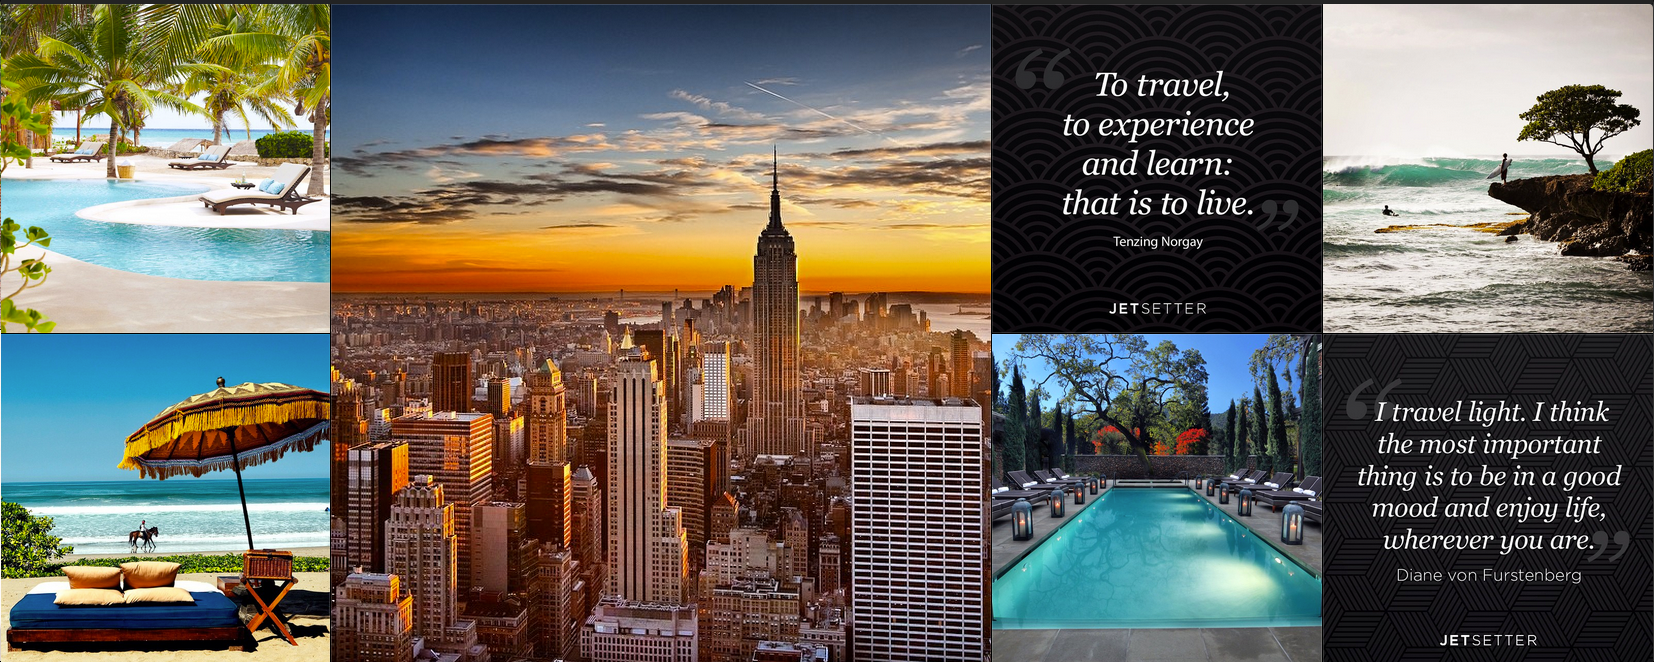
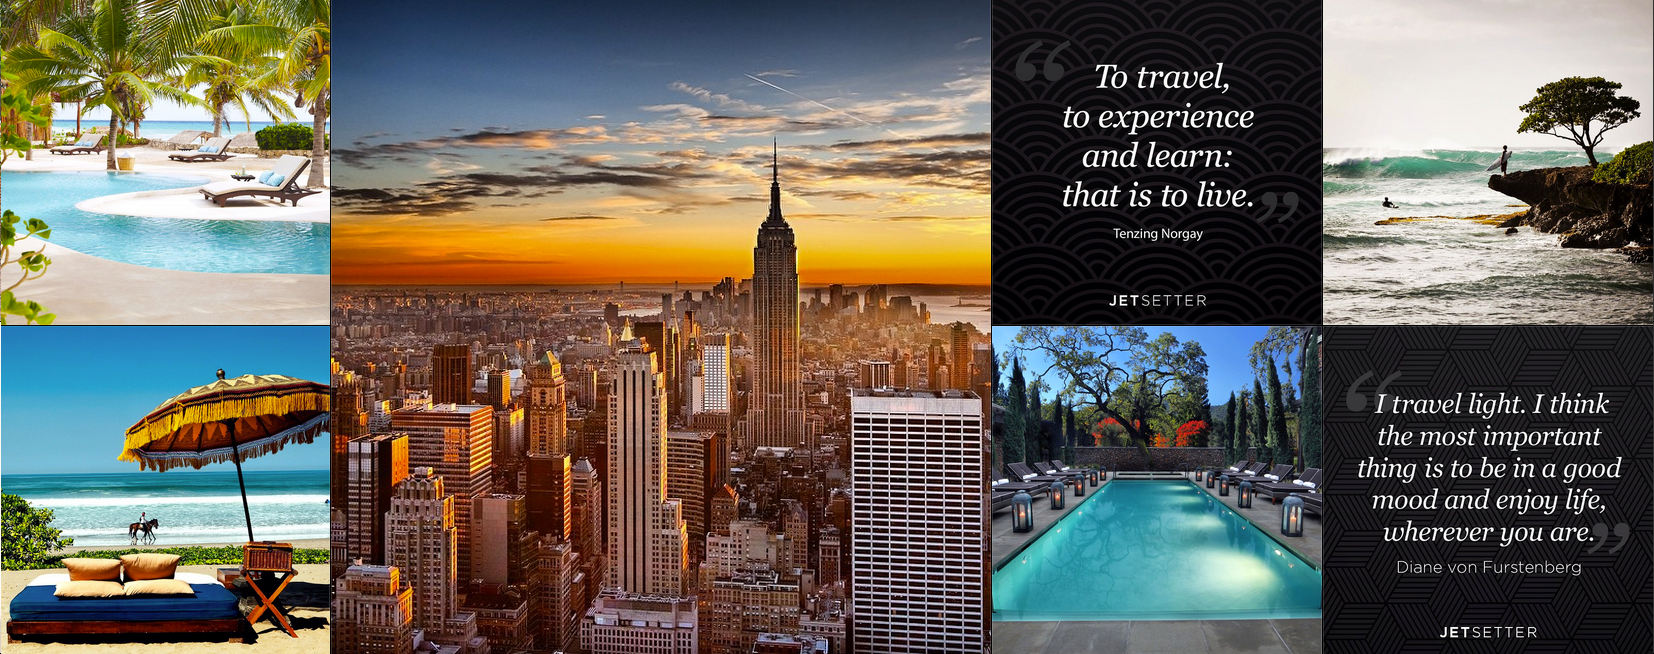
fixes for 1300

diff --git a/includes/homepage/block-top-sales-triple.html b/includes/homepage/block-top-sales-triple.html
@@ -77,9 +77,9 @@
       </div>
     </div>
   </div>
-    <div id="regional-sales-content" class="tab-content container-fluid">
+    <div id="regional-sales-content" class="tab-content container-fluid no-pad">
       <div role="tabpanel" class="tab-pane active" id="todays-sales" aria-labelledby="todays-sales-tab">
-        <div class="row no-gutters">
+        <div class="row tiles">
           <article class="sale-tile col-lg-4 col-md-4 col-sm-6">
             <a href="property.html">
             <img src="images/grid-1.png" class="img-responsive" />
@@ -172,7 +172,7 @@
           </article>
         </div>
         
-        <div id="extra-row-1" class="row no-gutters extra-row">
+        <div id="extra-row-1" class="row tiles extra-row">
           <article class="sale-tile col-lg-4 col-md-4 col-sm-6">
             <a href="#">
             <img src="images/grid-3.png" class="img-responsive" />
@@ -264,7 +264,7 @@
             </a>
           </article>
         </div>
-        <div class="row no-gutters toggle-row">
+        <div class="row tiles toggle-row">
           <div class="col-lg-12 col-md-12 col-sm-12">
             <a href="#" class="see-more-toggle" onclick="$('#extra-row-1').slideToggle('100', function(){ $('.see-more-toggle, .see-more-toggle-up').toggle();
             }); return false;">
@@ -278,7 +278,7 @@
         </div>
       </div>
       <div role="tabpanel" class="tab-pane fade in" id="us-canada" aria-labelledby="us-canada-tab">
-        <div class="row no-gutters">
+        <div class="row tiles">
           <article class="sale-tile col-lg-3 col-md-4 col-sm-6">
             <a href="#">
               <img src="images/grid-2.png" class="img-responsive" />
@@ -415,14 +415,14 @@
             </a>
           </article>
         </div>
-        <div class="row no-gutters">
+        <div class="row tiles">
           <div class="col-lg-12 col-md-12 col-sm-12 text-right">
             <a href="#" class="see-more-toggle" onclick="$('extra-rows').slideToggle();">See More Sales</a>
           </div>
         </div>
       </div>
       <div role="tabpanel" class="tab-pane fade" id="mexico-caribbean" aria-labelledby="mexico-caribbean-tab">
-        <div class="row no-gutters">
+        <div class="row tiles">
           <article class="sale-tile col-lg-3 col-md-4 col-sm-6">
             <a href="#">
               <img src="images/grid-5.png" class="img-responsive" />
@@ -561,7 +561,7 @@
         </div>
       </div>
       <div role="tabpanel" class="tab-pane fade" id="central-south-america" aria-labelledby="central-south-america-tab">
-        <div class="row no-gutters">
+        <div class="row tiles">
           <article class="sale-tile col-lg-3 col-md-4 col-sm-6">
             <a href="#">
               <img src="images/grid-2.png" class="img-responsive" />
@@ -700,7 +700,7 @@
         </div>
       </div>
       <div role="tabpanel" class="tab-pane fade" id="europe" aria-labelledby="europe-tab">
-        <div class="row no-gutters">
+        <div class="row tiles">
           <article class="sale-tile col-lg-3 col-md-4 col-sm-6">
             <a href="#">
               <img src="images/grid-2.png" class="img-responsive" />
@@ -839,7 +839,7 @@
         </div>
       </div>
       <div role="tabpanel" class="tab-pane fade" id="asia" aria-labelledby="asia-tab">
-        <div class="row no-gutters">
+        <div class="row tiles">
           <article class="sale-tile col-lg-3 col-md-4 col-sm-6">
             <a href="#">
               <img src="images/grid-2.png" class="img-responsive" />
@@ -978,7 +978,7 @@
         </div>
       </div>
       <div role="tabpanel" class="tab-pane fade" id="africa" aria-labelledby="africa-tab">
-        <div class="row no-gutters">
+        <div class="row tiles">
           <article class="sale-tile col-lg-3 col-md-4 col-sm-6">
             <a href="#">
               <img src="images/grid-2.png" class="img-responsive" />

diff --git a/includes/homepage/block-top-sales.html b/includes/homepage/block-top-sales.html
@@ -77,9 +77,9 @@
       </div>
     </div>
   </div>
-    <div id="regional-sales-content" class="tab-content">
+    <div id="regional-sales-content" class="tab-content full-bleed">
       <div role="tabpanel" class="tab-pane active" id="todays-sales" aria-labelledby="todays-sales-tab">
-        <div class="row no-gutters">
+        <div class="row tiles">
           <article class="sale-tile col-lg-3 col-md-4 col-sm-6">
             <a href="property.html">
             <img src="images/grid-1.png" class="img-responsive" />
@@ -217,7 +217,7 @@
           </article>
         </div>
         
-        <div id="extra-row-1" class="row no-gutters extra-row">
+        <div id="extra-row-1" class="row tiles extra-row">
           <article class="sale-tile col-lg-3 col-md-4 col-sm-6">
             <a href="#">
             <img src="images/grid-3.png" class="img-responsive" />
@@ -354,7 +354,7 @@
             </a>
           </article>
         </div>
-        <div class="row no-gutters toggle-row">
+        <div class="row tiles toggle-row">
           <div class="col-lg-12 col-md-12 col-sm-12">
             <a href="#" class="see-more-toggle" onclick="$('#extra-row-1').slideToggle('100', function(){ $('.see-more-toggle, .see-more-toggle-up').toggle();
             }); return false;">
@@ -368,7 +368,7 @@
         </div>
       </div>
       <div role="tabpanel" class="tab-pane fade in" id="us-canada" aria-labelledby="us-canada-tab">
-        <div class="row no-gutters">
+        <div class="row tiles">
           <article class="sale-tile col-lg-3 col-md-4 col-sm-6">
             <a href="#">
               <img src="images/grid-2.png" class="img-responsive" />
@@ -505,14 +505,14 @@
             </a>
           </article>
         </div>
-        <div class="row no-gutters">
+        <div class="row tiles">
           <div class="col-lg-12 col-md-12 col-sm-12 text-right">
             <a href="#" class="see-more-toggle" onclick="$('extra-rows').slideToggle();">See More Sales</a>
           </div>
         </div>
       </div>
       <div role="tabpanel" class="tab-pane fade" id="mexico-caribbean" aria-labelledby="mexico-caribbean-tab">
-        <div class="row no-gutters">
+        <div class="row tiles">
           <article class="sale-tile col-lg-3 col-md-4 col-sm-6">
             <a href="#">
               <img src="images/grid-5.png" class="img-responsive" />
@@ -651,7 +651,7 @@
         </div>
       </div>
       <div role="tabpanel" class="tab-pane fade" id="central-south-america" aria-labelledby="central-south-america-tab">
-        <div class="row no-gutters">
+        <div class="row tiles">
           <article class="sale-tile col-lg-3 col-md-4 col-sm-6">
             <a href="#">
               <img src="images/grid-2.png" class="img-responsive" />
@@ -790,7 +790,7 @@
         </div>
       </div>
       <div role="tabpanel" class="tab-pane fade" id="europe" aria-labelledby="europe-tab">
-        <div class="row no-gutters">
+        <div class="row tiles">
           <article class="sale-tile col-lg-3 col-md-4 col-sm-6">
             <a href="#">
               <img src="images/grid-2.png" class="img-responsive" />
@@ -929,7 +929,7 @@
         </div>
       </div>
       <div role="tabpanel" class="tab-pane fade" id="asia" aria-labelledby="asia-tab">
-        <div class="row no-gutters">
+        <div class="row tiles">
           <article class="sale-tile col-lg-3 col-md-4 col-sm-6">
             <a href="#">
               <img src="images/grid-2.png" class="img-responsive" />
@@ -1068,7 +1068,7 @@
         </div>
       </div>
       <div role="tabpanel" class="tab-pane fade" id="africa" aria-labelledby="africa-tab">
-        <div class="row no-gutters">
+        <div class="row tiles">
           <article class="sale-tile col-lg-3 col-md-4 col-sm-6">
             <a href="#">
               <img src="images/grid-2.png" class="img-responsive" />

diff --git a/index2.html b/index2.html
@@ -32,7 +32,7 @@
       <script src="https://oss.maxcdn.com/respond/1.4.2/respond.min.js"></script>
     <![endif]-->
   </head>
-  <body id="splash" class="retail hotel white">
+  <body id="splash" class="retail hotel white fixed">
     <div id="mobile-notification" class="text-center">
       <img src="http://cdnx.jetcdn.com/static/images/layout/header/logo.png?v3" class="img-responsive" />
       <h2 class="tenor">The Mobile Site Takes Over at This Width</h2>
@@ -43,7 +43,7 @@
         <!-- includes/header.html -->
       </header>
     
-      <section id="search-hero" class="container-full-width fixed-width fade-in">
+      <section id="search-hero" class="container-full-width fixed-width">
         <!-- includes/homepage/block-search-hero.html -->
       </section>
 
@@ -51,7 +51,7 @@
         <!-- includes/homepage/block-top-sales.html -->
       </section>
 
-      <section id="collections" class="container-full-width fade-in">
+      <section id="collections" class="container-full-width">
           <!-- includes/homepage/block-collections.html -->
       </section>
 
@@ -59,18 +59,18 @@
           <!-- includes/homepage/block-magazine.html -->
       </section>
 
-      <section id="cross-sell" class="container-full-width fade-in">
+      <section id="cross-sell" class="container-full-width">
           <!-- includes/homepage/block-cross-sell.html -->
       </section>
 
-      <section id="insta-feed" class="container-full-width fade-in">
+      <section id="insta-feed" class="container-full-width">
         <!-- includes/homepage/block-insta-feed.html -->
       </section>
-      <section id="upcoming" class="stripe lists fade-in">
+      <section id="upcoming" class="stripe lists">
         <!-- includes/homepage/block-upcoming -->
       </section>
     
-      <footer id="footer" class="container-full-width tenor fade-in">
+      <footer id="footer" class="container-full-width tenor">
         <!-- includes/footer.html -->
       </footer>
     </div>

diff --git a/css/homepage.css b/css/homepage.css
@@ -7,8 +7,45 @@
   margin: 0 auto;
 }
 
-.container-fluid {
+.fixed .container-fluid {
   max-width: 1300px;
+}
+
+.fixed .container-fluid.no-pad {
+  padding-right: 0;
+  padding-left: 0;
+}
+
+.fixed .container-fluid.no-pad .row {
+  margin-right: 0;
+  margin-left: 0;
+}
+
+.fixed .container-fluid.no-pad .row [class^="col-"],
+.fixed .row.no-gutters [class*=" col-"]{
+   padding: 0;
+}
+
+/* no-gutters class rules for full width, no gutters */
+.container-fluid.no-pad .row.tiles {
+   margin-right: 0;
+   margin-left: 0;
+}
+.container-fluid.no-pad .row.tiles [class^="col-"],
+.container-fluid.no-pad .row.tiles [class*=" col-"]{
+   padding: 2px;
+}
+
+
+/* for index 1 where full bleed top sales occur */
+.full-bleed .row.tiles {
+   margin-right: 2px;
+   margin-left: 2px;
+}
+
+.full-bleed .row.tiles [class^="col-"],
+.full-bleed .row.tiles [class*=" col-"]{
+  padding: 2px;
 }
 
 .fade-in {

diff --git a/js/homepage.js b/js/homepage.js
@@ -18,6 +18,7 @@ $( document ).ready(function() {
   $( "#top-sales-triple" ).load( "includes/homepage/block-top-sales-triple.html" );
   $( "#collections" ).load( "includes/homepage/block-collections.html" );
   $( "#magazine" ).load( "includes/homepage/block-magazine.html" );
+  $( "#magazine.full" ).load( "includes/homepage/block-magazine-full-bleed.html" );
   $( "#cross-sell" ).load( "includes/homepage/block-cross-sell.html" );
   $( "#insta-feed" ).load( "includes/homepage/block-insta-feed.html" );
   $( "#upcoming" ).load( "includes/homepage/block-upcoming.html" );

diff --git a/index.html b/index.html
@@ -51,7 +51,7 @@
       <section id="collections" class="container-full-width">
         <!-- includes/homepage/block-collections.html -->
       </section>
-      <section id="magazine" class="container-full-width">
+      <section id="magazine" class="full container-full-width">
         <!-- includes/homepage/block-magazine.html -->
       </section>
       <section id="cross-sell" class="container-full-width">

diff --git a/includes/homepage/block-insta-feed.html b/includes/homepage/block-insta-feed.html
@@ -12,4 +12,10 @@
     </div>
   </div>
 </header>
-<img src="images/insta-placeholder.png?v=2" class="img-responsive" style="max-width: 1300px; margin: 0 auto;" />
+<div class="container-fluid no-pad">
+  <div class="row">
+    <div class="col-lg-12 col-md-12 col-sm-12">
+    <img src="images/insta-placeholder.png?v=4" class="img-responsive" />
+    </div>
+  </div>
+</div>

diff --git a/includes/homepage/block-magazine-full-bleed.html b/includes/homepage/block-magazine-full-bleed.html
@@ -5,7 +5,7 @@
     </div>
   </div>
 </header>
-<div id="gallery-magazine" class="carousel slide container-fluid no-pad" data-ride="carousel">
+<div id="gallery-magazine" class="carousel slide" data-ride="carousel">
   <!-- Indicators -->
   <ol class="carousel-indicators">
     <li data-target="#gallery-magazine" data-slide-to="0" class="active"></li>

diff --git a/css/template.css b/css/template.css
@@ -100,16 +100,6 @@ body.gutter #grace-wrap {
   }
 }
 
-/* no-gutters class rules for full width, no gutters */
-.row.no-gutters {
-   margin-right: 2px;
-   margin-left: 2px;
-}
-.row.no-gutters [class^="col-"],
-.row.no-gutters [class*=" col-"]{
-   padding: 2px;
-}
-
 /* styles *******************************************/
 
 body {
